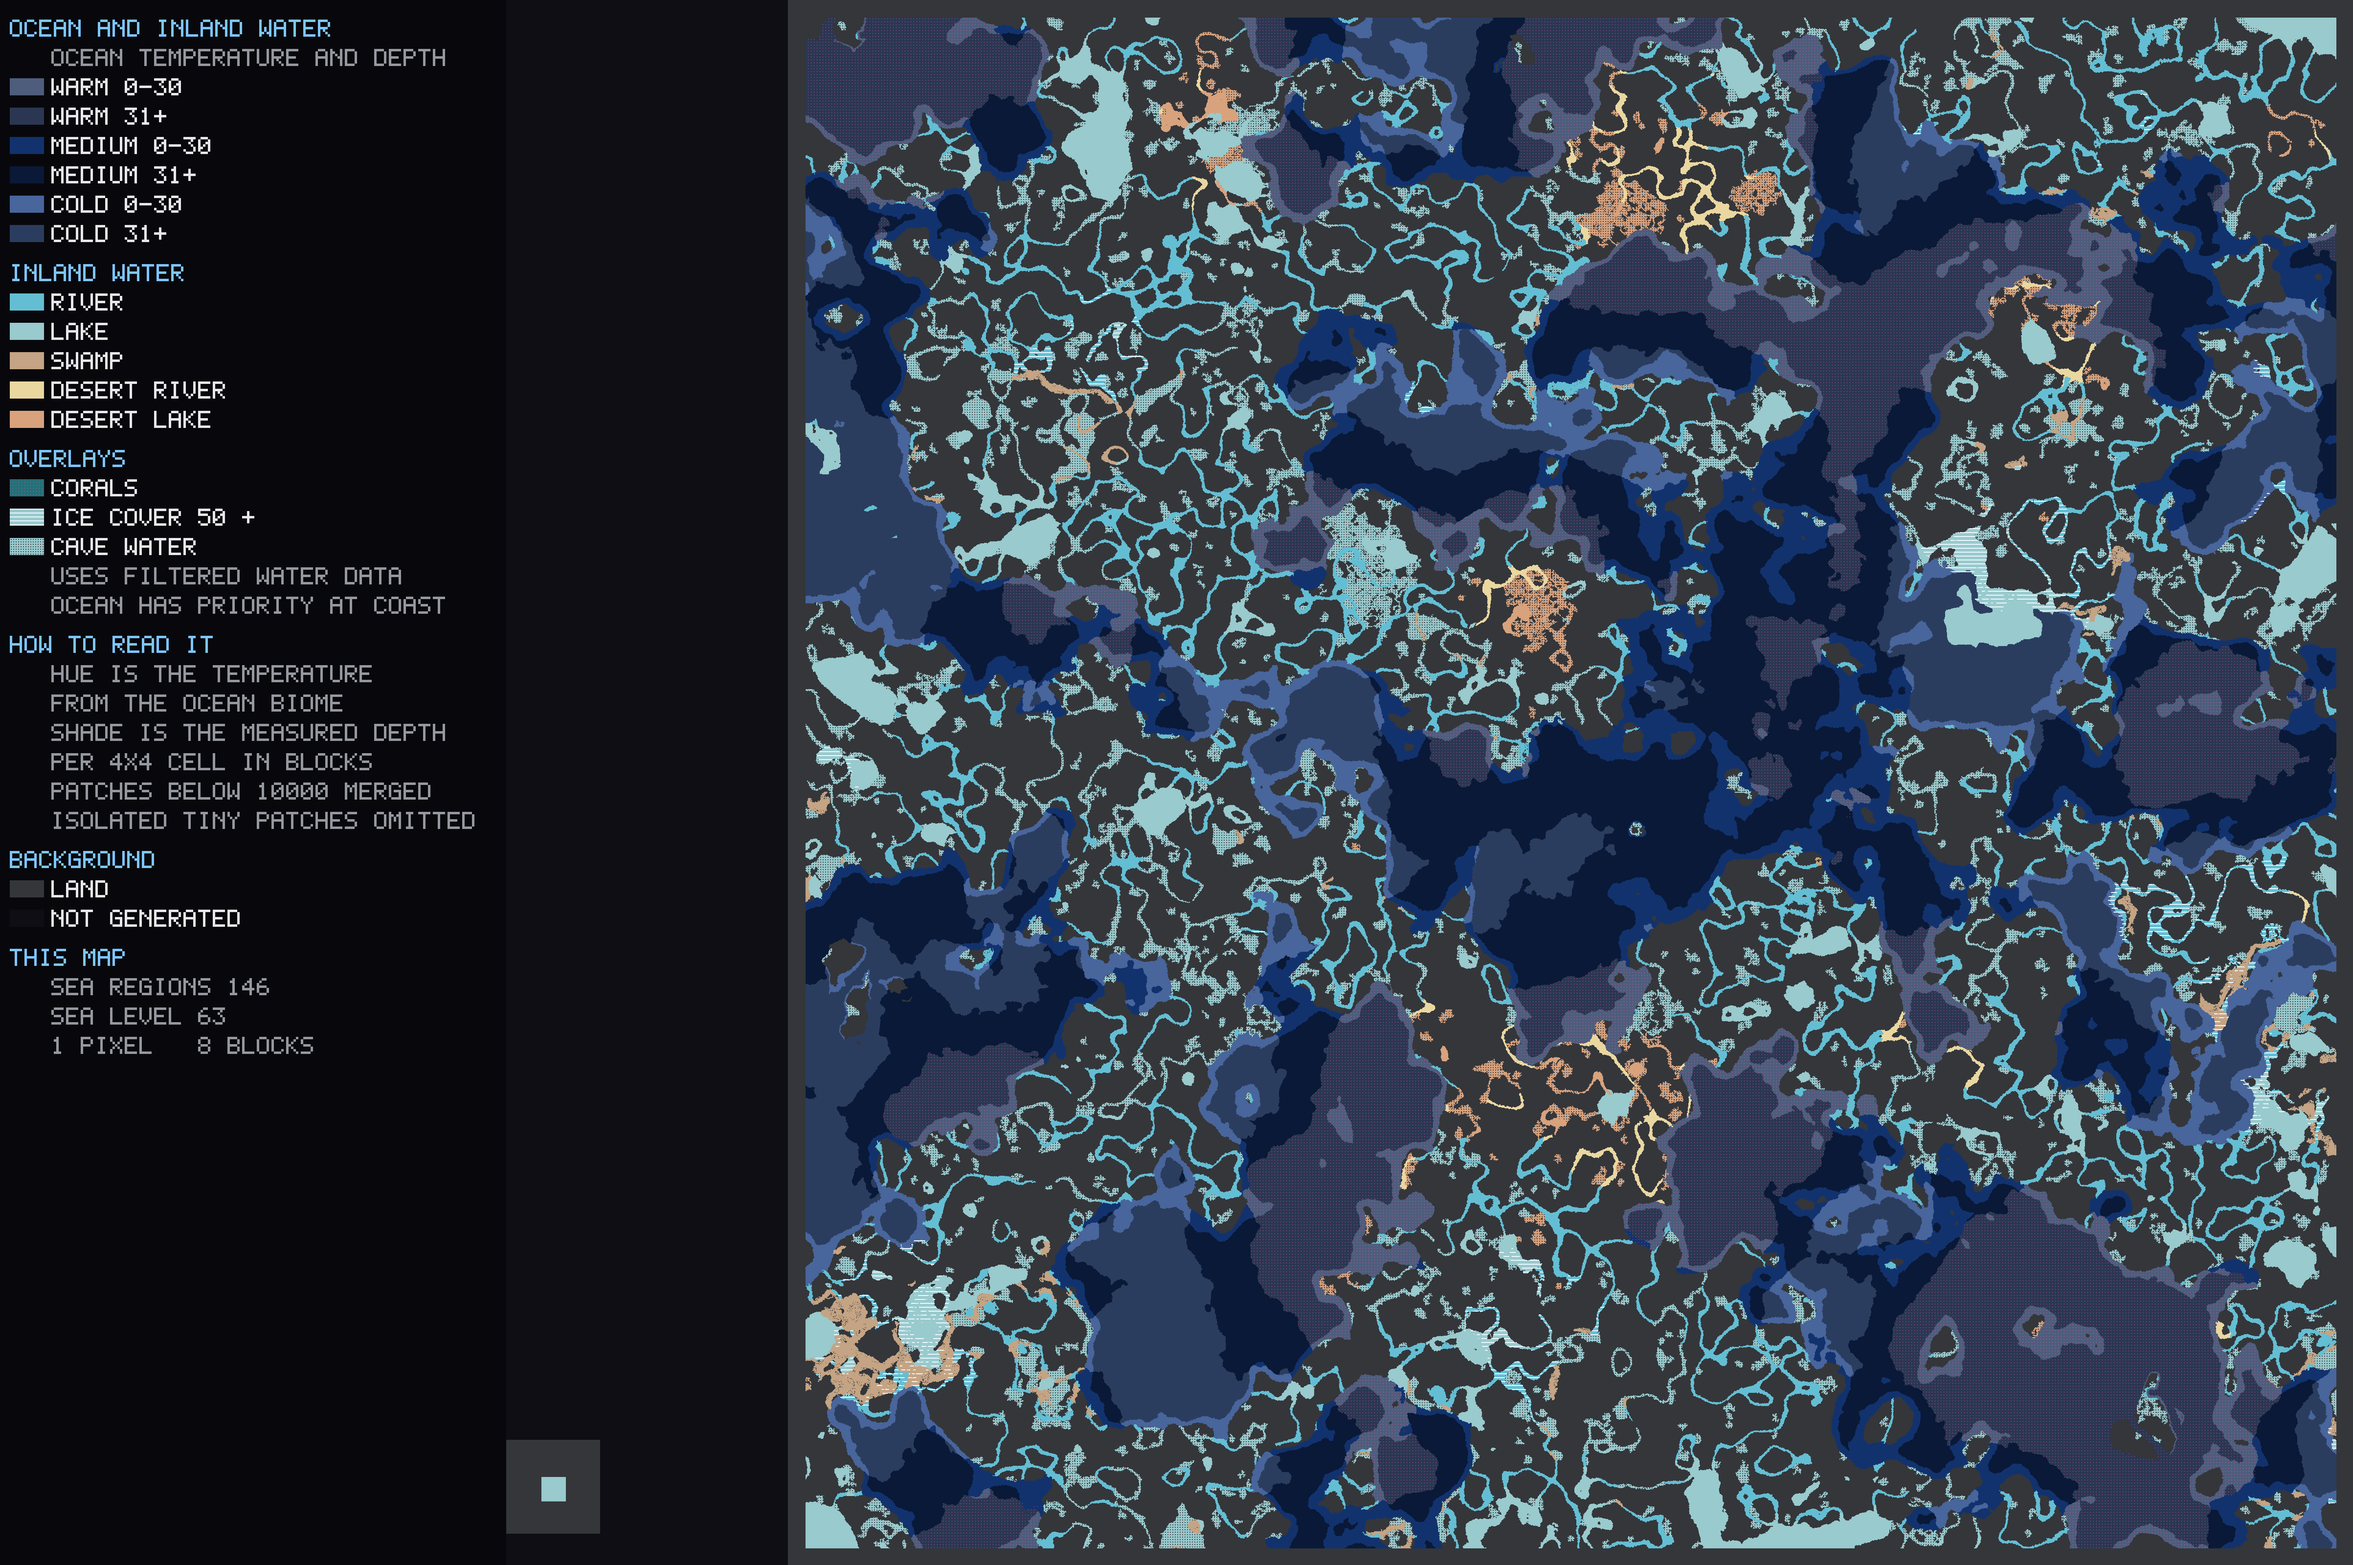
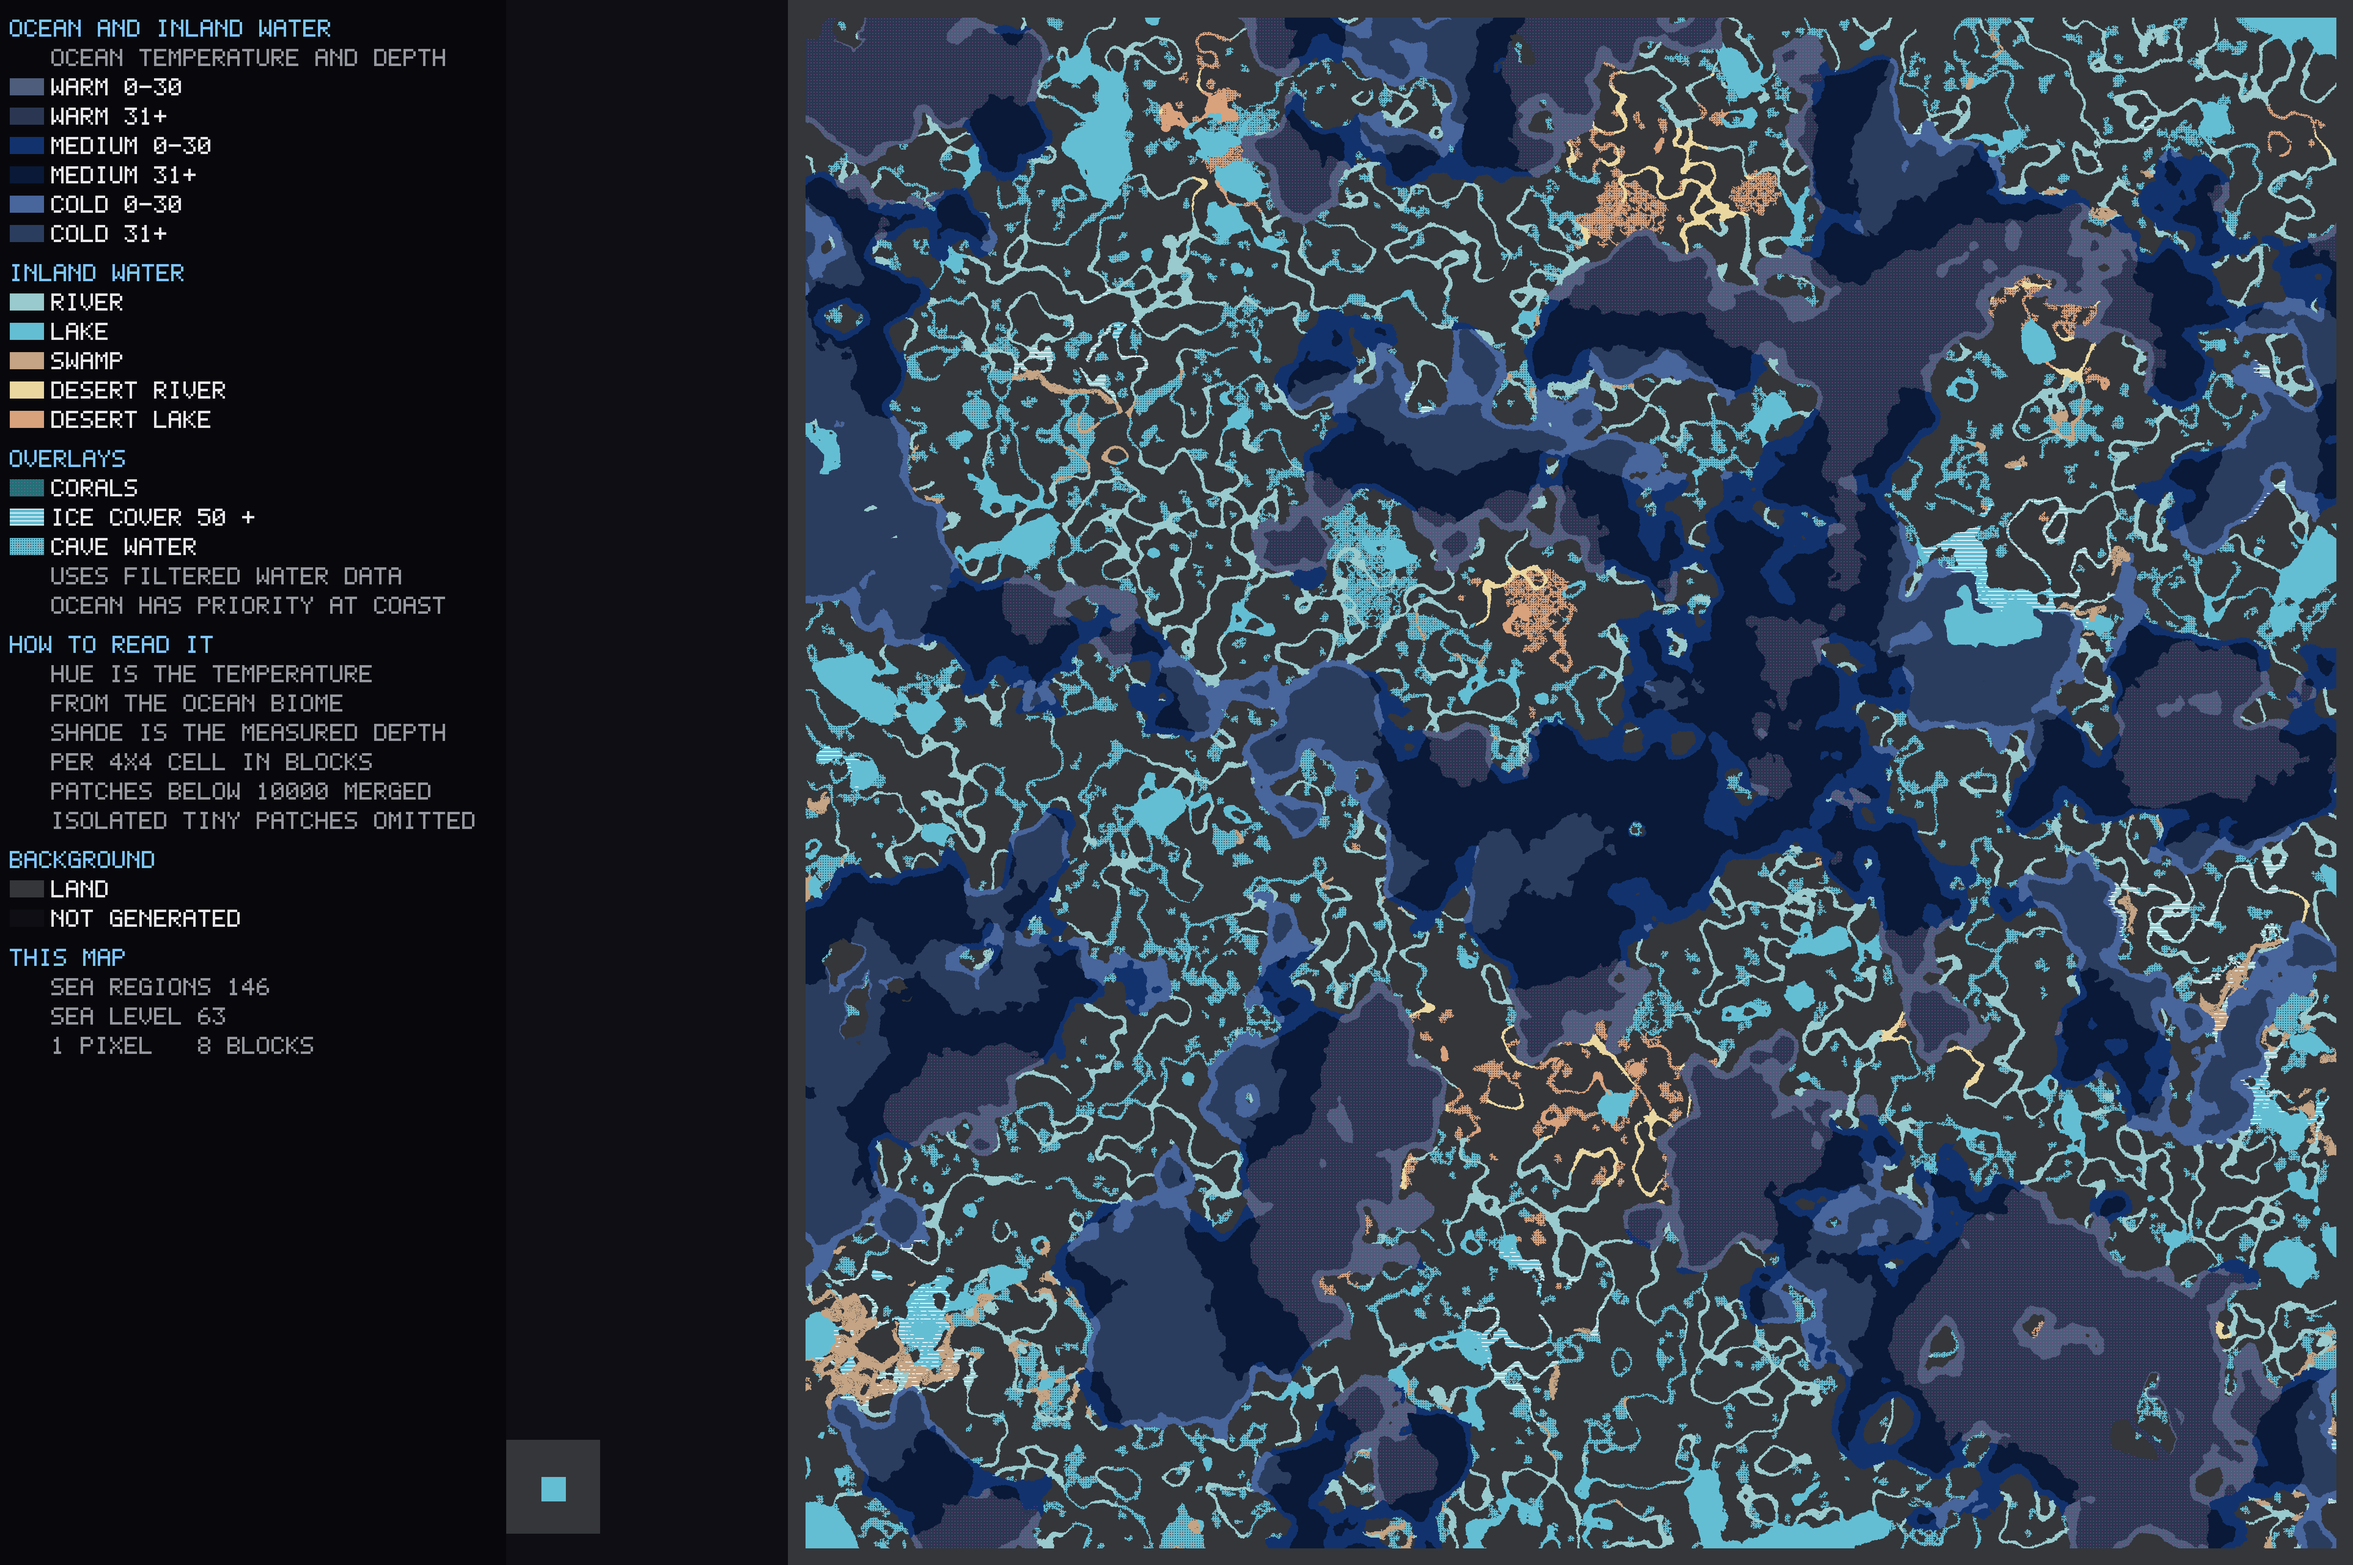
Swap river and lake overview colors

diff --git a/scripts/score_water_mask.py b/scripts/score_water_mask.py
@@ -15,14 +15,20 @@ import struct
 import numpy as np
 from PIL import Image
 
-RIVER = ((79, 196, 193), (58, 225, 205), (234, 215, 160))
-LAKE = ((153, 202, 205), (203, 185, 132))
+PALETTES = {
+    "current": (((153, 202, 205), (234, 215, 160)), ((100, 190, 211), (216, 162, 125))),
+    "legacy": (
+        ((100, 190, 211), (79, 196, 193), (58, 225, 205), (234, 215, 160)),
+        ((153, 202, 205), (216, 162, 125), (203, 185, 132)),
+    ),
+}
 DEFAULT_RIVER_BRUSH = (58, 225, 205)
+DEFAULT_LAKE_BRUSH = (153, 202, 205)
 
 
-def classes(rgb):
+def classes(rgb, palette="current"):
     result = np.zeros(rgb.shape[:2], dtype=np.uint8)
-    for label, colors in ((1, RIVER), (2, LAKE)):
+    for label, colors in enumerate(PALETTES[palette], start=1):
         for color in colors:
             result[np.all(rgb == color, axis=2)] = label
     return result
@@ -58,7 +64,9 @@ def main():
     parser.add_argument("--reference-data", type=Path, required=True, help="water_regions.bin for the reference map")
     parser.add_argument("--map-scale", type=int, default=8)
     parser.add_argument("--river-color", type=brush_color, default=DEFAULT_RIVER_BRUSH, help="river brush RGB, default 3ae1cd")
-    parser.add_argument("--lake-color", type=brush_color, default=LAKE[0], help="lake brush RGB, default 99cacd")
+    parser.add_argument("--lake-color", type=brush_color, default=DEFAULT_LAKE_BRUSH, help="lake brush RGB, default 99cacd")
+    parser.add_argument("--reference-palette", choices=PALETTES, default="current", help="reference PNG palette; legacy for maps from before the river/lake color swap")
+    parser.add_argument("--map-palette", choices=PALETTES, default="current", help="candidate PNG palette; applies to every --map")
     parser.add_argument("--map", type=Path, action="append", required=True, help="candidate combined PNG; repeat to compare")
     parser.add_argument("--output", type=Path, help="optional JSON report")
     args = parser.parse_args()
@@ -73,7 +81,7 @@ def main():
     x0, z0, x1, z1 = struct.unpack_from(">4i", header, 24)
     width, height = (x1-x0)//args.map_scale+1, (z1-z0)//args.map_scale+1
     with Image.open(args.reference_map) as image:
-        reference = classes(np.array(image.convert("RGB")))
+        reference = classes(np.array(image.convert("RGB")), args.reference_palette)
     panel = reference.shape[1] - width
     if panel < 0 or reference.shape[0] != height:
         parser.error("reference PNG dimensions disagree with the binary bounds and scale")
@@ -94,13 +102,14 @@ def main():
         "river_labels": int((truth == 1).sum()), "lake_labels": int((truth == 2).sum()),
         "ignored_paint_outside_inland_water": int(((paint > 0) & ~valid).sum()),
         "brush_colors": {"river": args.river_color, "lake": args.lake_color},
+        "map_palettes": {"reference": args.reference_palette, "candidates": args.map_palette},
         "projection": {"legend_width": panel, "blocks_per_pixel": args.map_scale, "world_bounds": [x0,z0,x1,z1]},
         "method": "Fixed reference river/lake pixels only. No alignment changes, dilation, filled annotations or background agreement. Missing candidate classes count as errors. Adjacent trace pixels are correlated; this is annotation agreement, not independent whole-world accuracy.",
         "results": [],
     }
     for path in args.map:
         with Image.open(path) as image:
-            candidate = classes(np.array(image.convert("RGB")))
+            candidate = classes(np.array(image.convert("RGB")), args.map_palette)
         if candidate.shape != reference.shape:
             parser.error(f"candidate resolution differs: {path}")
         report["results"].append({"map": path.as_posix(), **metrics(truth, candidate[valid])})

diff --git a/src/debug/map.rs b/src/debug/map.rs
@@ -33,7 +33,7 @@ const PANEL_BG: [u8; 3] = [8, 8, 12];
 const TEXT: [u8; 3] = [232, 232, 236];
 const TEXT_DIM: [u8; 3] = [150, 152, 160];
 const HEADER: [u8; 3] = [126, 198, 255];
-const RIVER_COLOR: [u8; 3] = [0x64, 0xbe, 0xd3];
+const RIVER_COLOR: [u8; 3] = [0x99, 0xca, 0xcd];
 const SWAMP_COLOR: [u8; 3] = [0xc4, 0xa4, 0x84];
 const CAVE_DOT_COLOR: [u8; 3] = [0x44, 0x48, 0x4f];
 const CORAL_DOT_COLOR: [u8; 3] = [0xff, 0x5a, 0xbe];
@@ -846,7 +846,7 @@ fn inland_color(kind: WaterKind) -> [u8; 3] {
     match kind {
         WaterKind::Sea => [36, 112, 120],
         WaterKind::River => RIVER_COLOR,
-        WaterKind::Lake => [0x99, 0xca, 0xcd],
+        WaterKind::Lake => [0x64, 0xbe, 0xd3],
         WaterKind::Swamp => SWAMP_COLOR,
     }
 }

diff --git a/README.md b/README.md
@@ -39,7 +39,8 @@ preserve exactly the same 351,359,105 retained water columns; short channels and
 attribute fragments can now be smaller than the earlier 2,000-column cleanup floor.
 The height rule also admits shallow covered ponds; the area floor
 removes small isolated ones. Desert rivers use light sand; desert lakes use a
-muted orange-red for clearer separation. Rivers use a soft light blue.
+muted orange-red for clearer separation. Rivers use pale blue-green; lakes use a
+soft light blue.
 
 ### Combined ocean, river and lake map
 
@@ -246,7 +247,7 @@ validation aids:
 | Warm ocean | `#4e5d7c` | `#2b3752` |
 | Normal ocean | `#12326e` | `#091937` |
 | Cold ocean | `#48659c` | `#2b3d5e` |
-| River / lake | River `#64bed3` | Lake `#99cacd` |
+| River / lake | River `#99cacd` | Lake `#64bed3` |
 | Desert river / lake | River `#ead7a0` | Lake `#d8a27d` |
 | Swamp | Light brown `#c4a484` | `#c4a484` |
 

diff --git a/docs/lake-detection.md b/docs/lake-detection.md
@@ -315,3 +315,9 @@ transparent or black. Without colour options, the utility accepts the original
 river `#3ae1cd` and lake `#99cacd` brushes. Repeat `--map` to compare versions
 against the same reference water. These options change annotation decoding,
 not the exported map palette.
+
+PNG decoding defaults to the current palette: river `#99cacd`, lake `#64bed3`.
+For maps generated before this colour swap, use `--reference-palette legacy`
+and/or `--map-palette legacy` as appropriate. Annotation brush colours stay
+independent of these settings. All candidates in one invocation use the same
+map palette; score separate groups when comparing exports with different palettes.
